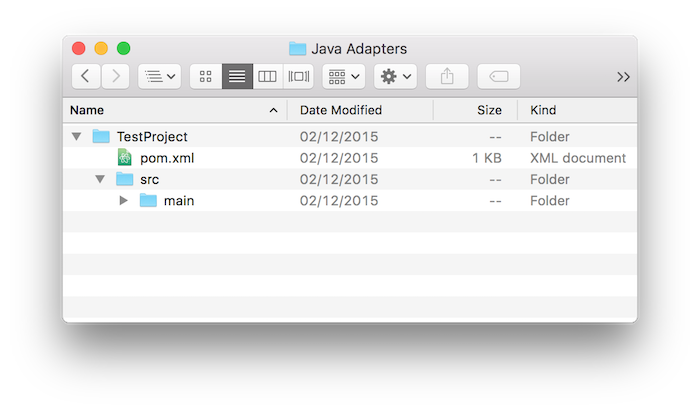
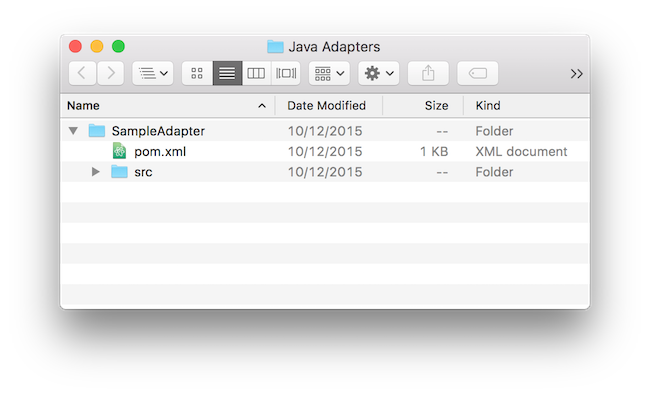
Adding changes to the creating adapters sample

diff --git a/tutorials/en/foundation/8.0/server-side-development/creating-adapters/index.md b/tutorials/en/foundation/8.0/server-side-development/creating-adapters/index.md
@@ -11,16 +11,26 @@ The "adapter-maven-archetype" is based on the [Maven archetype toolkit](https://
 
 **Prerequisite:**  Make sure that you read the [Adapters Overview](../adapters-overview) tutorial first.</span>
 
-### Using Maven Archetype "adapter-maven-archetype"
+###Jump To:
+* [Creating Adapters using Maven](#creatingWithMaven)
+ * [Install Maven](#installMvn)
+ * [Create an Adapter](#createAdapter)
+ * [Build and Deploy Adapters](#build&deploy)
+ * [Dependencies](#dependencies)
+ * [Grouping Adapters in a Single Maven Project](#grouping)
+* [Creating Adapters using MobileFirst CLI](#creatingWithCli)
+* [Creating Adapters using MobileFirst Operations Console](#creatingWithConsole)
+
+### Creating Adapters using Maven Archetype "adapter-maven-archetype"<a name="creatingWithMaven"></a>
 The "adapter-maven-archetype" is based on the [Maven archetype toolkit](https://maven.apache.org/guides/introduction/introduction-to-archetypes.html) in order to create the adapter as a Maven project.
 
 </br>
-#### Install Maven
+#### Install Maven<a name="installMvn"></a>
 In order to create an adapter, you first need to download and install Maven. Go to the [Apache Maven website](https://maven.apache.org/) and follow the instructions how to download and install Maven.
 
 </br>
-#### Creating an Adapter
-To create an adapter Maven project, use the `archetype:generate` command.
+#### Create an Adapter<a name="createAdapter"></a>
+To create a Maven adapter project, use the `archetype:generate` command.
 You can choose to run the command interactively or directly.
 
 **In Interactive Mode**
@@ -39,7 +49,7 @@ You can choose to run the command interactively or directly.
 2. Enter the Group Id of the Maven project to be build:
 
     ```shell
-    Define value for property 'groupId': : sample.group.id
+    Define value for property 'groupId': : com.mfp
     ```
 
 3. Enter the Artifact Id of the Maven project **which will later be used also as the adapter name**:
@@ -57,7 +67,7 @@ You can choose to run the command interactively or directly.
 5. Enter the Java adapter package name (the default is the `groupId`):
 
     ```shell
-    Define value for property 'package':  sample.group.id: : com.sample.adapter
+    Define value for property 'package':  com.mfp: : com.sample
     ```
 
 6. Enter `y` to confirm:
@@ -91,7 +101,7 @@ After creating the adapter the result will be a Maven project containing a `src`
 
 ![mvn-adapter](java-adapter-structrue.png)
 
-#### Building and Deploying Java Adapters
+#### Build and Deploy Adapters <a name="build&deploy"></a>
 **Build**
 
 The adapter will be built every time you run the `mvn install` command to build your Maven project.  
@@ -101,10 +111,9 @@ The end result is the `.adapter` file in the project `target` folder:
 
 **Deploy**
 
-1. Edit the `pom.xml` file with the following `properties` parameters:
+1. The `pom.xml` file contains the following `properties` parameters:
 
       ```xml
-      ...
       <properties>
     		<!-- parameters for deploy mfpf adapter -->
     		<mfpfUrl>http://localhost:9080/mfpadmin</mfpfUrl>
@@ -112,8 +121,8 @@ The end result is the `.adapter` file in the project `target` folder:
     		<mfpfPassword>demo</mfpfPassword>
     	</properties>
       ```
-   * Replace the `IP` and `PORT` with the MobileFirst Server IP and port.
-   * Replace the `mfpfUser` and `mfpfPassword` with the MobileFirst admin user name and password.  
+   * Replace the `IP` and `PORT` with your MobileFirst Server IP and port.
+   * Replace the `mfpfUser` and `mfpfPassword` with your MobileFirst admin user name and password.  
 2. Open the project's root folder in terminal and run the `mvn:adapter` command:
 
       ```shell
@@ -122,7 +131,7 @@ The end result is the `.adapter` file in the project `target` folder:
 **NOTE:** The deploy command is available only during development (for security reasons).
 
 </br>
-#### Dependencies
+#### Dependencies <a name="dependencies"></a>
 In order to use an external library in your adapter, follow these suggested instructions:
 
 1. Add a `lib` folder under the root Maven project folder and put the external library in it.
@@ -143,14 +152,53 @@ For example:
 > For more information about `dependencies` see the Maven documentation.
 
 </br>
-#### Grouping Adapters in a Single Maven Project
+#### Grouping Adapters in a Single Maven Project <a name="grouping"></a>
+If you have several adapters in your project you may want to arrange them under a single Maven project. Grouping adapters provides many benefits such as build all and deploy all abilities, sharing dependencies etc.
+
+To group adapters you need to:
+
+1. Create a root folder and call it, for example, "GroupAdapters".
+2. Put the Maven adapter projects in it.
+3. Create a `pom.xml` file:
+
+    ```xml
+    <project xmlns="http://maven.apache.org/POM/4.0.0" xmlns:xsi="http://www.w3.org/2001/XMLSchema-instance"
+    	xsi:schemaLocation="http://maven.apache.org/POM/4.0.0 http://maven.apache.org/xsd/maven-4.0.0.xsd">
+
+    	<modelVersion>4.0.0</modelVersion>
+    	<groupId>com.sample</groupId>
+    	<artifactId>GroupAdapters</artifactId>
+    	<version>1.0-SNAPSHOT</version>
+    	<packaging>pom</packaging>
+
+    	<modules>
+    					<module>AdapterName1</module>
+    					<module>AdapterName2</module>
+    	</modules>
+
+    	<properties>
+    		<!-- parameters for deploy mfpf adapter -->
+    		<mfpfUrl>http://localhost:9080/mfpadmin</mfpfUrl>
+    		<mfpfUser>demo</mfpfUser>
+    		<mfpfPassword>demo</mfpfPassword>
+    	</properties>
+
+    </project>
+    ```
+  * Define a **`groupId`** of your choice
+  * Add an **`artifactId`** - the root folder's name
+  * Replace the `IP` and `PORT` with your MobileFirst Server IP and port.
+  * Replace the `mfpfUser` and `mfpfPassword` with your MobileFirst admin user name and password.
+
+4. To build or deploy all adapters, run the commands from the root "GroupAdapters" project.
+
+### Creating Adapters using MobileFirst CLI <a name="creatingWithCli"></a>
+
+### Creating Adapters using MobileFirst Operations Console <a name="creatingWithConsole"></a>
 
 
-
+<br/><br/><br/>
 
 * **Using the MobileFirst Operations Console:**
   1. Open your browser of choice and load the MobileFirst Operations Console using the address `http://<IP>:<PORT>/mfpconsole/`.  
   2. Drag and drop the `.adapter` file from the target folder into the Console.
-
-* **Using the MobileFirst CLI:**
-  1.
